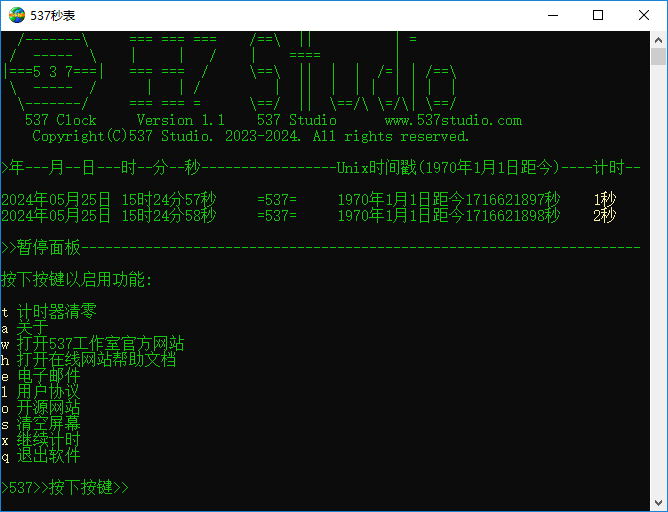
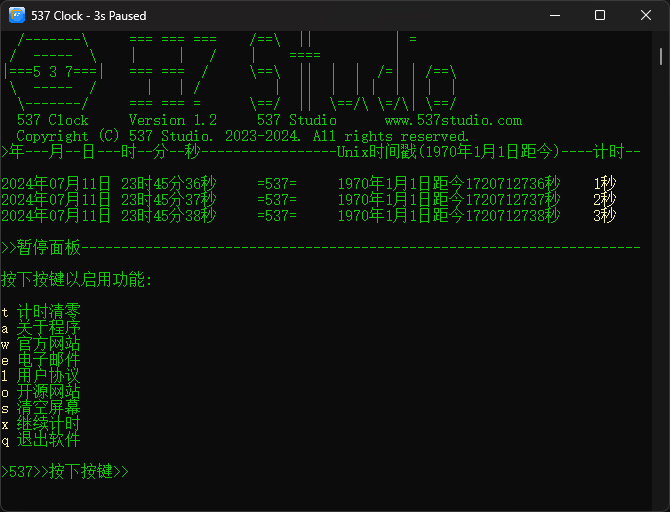
update README for v1.2

diff --git a/README.en.md b/README.en.md
@@ -2,17 +2,15 @@
 
 ### Introduction
 
-537 Clock is a Windows console application developed by 537 Studio, which is a command-line interface with functions such as year, month, day, hour, minute, and second display, Unix timestamp display, timing/clearing, and color grading.
+537 Clock is a Windows console application developed by 537 Studio, which is a command-line interface with functions such as year, month, day, hour, minute, and second display, Unix timestamp display, timing/clearing, and color grading. Released on December 31, 2023.
 
-Released on December 31, 2023
+Latest official version: 1.2 (portable: x64 & x86)
 
-Latest official version: 1.1 (portable: x64 & x86)
-
-Video introduction: https://www.bilibili.com/video/BV1Y2421M7yk
+Video Intro (1.0 beta version): https://www.bilibili.com/video/BV1Y2421M7yk
 
 ! [537 Clock] (537Clock_Introduction.PNG)
 
-### Concept: Less is more
+### Concept: _Less is more_
 
 The software is designed to create a great user experience. Icons built with useful characters and a user-friendly UI (user interface) that can be used to adjust the foreground color of the console (display character color). Its interactive experience also goes beyond the interaction of most command-line programs, such as selecting in-menu functions, where a normal command-line program requires the user to enter text before entering, while the 537 Clock cleverly uses a keyboard listening algorithm to react immediately when the software window is active. This greatly facilitates the use of the software. For example, during the timing period, the user presses and holds the spacebar for about 1 second (long press to avoid accidental touch), and the software will quickly open the pause panel with character animation, showing functions such as clearing and color grading. If you press the corresponding button of the function (not long press), the software will perform the relevant operation.
 
@@ -20,21 +18,25 @@ The software is designed to create a great user experience. Icons built with use
 
 At the beginning of the design of the 537 Clock, the pursuit of **simplicity and efficiency**. The following are the features and related introductions within the software:
 
-#### **Pause Panel**:
+#### **Title Seconds** (for 1.2 and above)
 
-Press and hold the keyboard spacebar for about 1 second during the software operation to open the pause panel. There are the following optional functions in the panel: Timer Clear, About, Color Correction, Open 537 Studio Official Website, Open Work Introduction Document, Email, User Agreement, Continue Timer, Exit. Press the buttons corresponding to each function in the first column of the window to perform the corresponding operation.
+From the beginning of the operation, the software will display the current number of seconds in the title bar at the same time, and the title will also synchronize "Paused" when paused.
 
-> When the pause panel is opened, the ongoing timing operation is paused.
+#### **Pause Panel**
 
-#### **Timer Zero**:
+Press and hold the keyboard spacebar for about 1 second during the software operation to open the pause panel. There are the following optional functions in the panel: Timer Clear, About Program, E-mail, User Agreement, Resume Timer, Exit. Press the buttons corresponding to each function in the first column of the window to perform the corresponding operation.
+
+> When the pause panel is opened, the ongoing timing operation is paused and the status is synced to the title.
+
+#### **Timer Zero** (1.1 and earlier versions are named "Timer Zero")
 
 The software starts the clock from the moment it is running, and the time is measured in seconds and is displayed in the rightmost column of the window. Press the "T" button on the pause panel to reset the timer time, and when the zero panel is closed, the timer will start from 0 again, which is irreversible.
 
-#### **About**:
+#### **About the program** (1.1 and earlier versions are named "About")
 
 Press the "A" button on the pause panel to display the software icon, version, and other related information, and there will be a selection sound and a software startup sound during the display, and there will be a comfortable character animation. After 0.2 seconds after the character interface is displayed, the software will automatically pop up an About window, which will display the current system information and software information, click "Confirm" to close. This window is a normal window type that can be preserved without conflicting with the stopwatch itself, and you can still perform other operations within the main window of the software even if you don't close the window.
 
-#### **Color Grading** (removed from version 1.1):
+#### **Color Grading** (for version 1.0)
 
 Press the "C" button on the pause panel to perform the action. This option provides the ability to adjust the foreground color (color of the displayed text) of the console window by pressing the corresponding hexadecimal key (0-9, A-F), and the following colors are available:
 
@@ -50,48 +52,56 @@ Press the "C" button on the pause panel to perform the action. This option provi
 > **Note**: The color description comes from the built-in Command Prompt program (cmd.exe) of the Microsoft Windows operating system, and the actual display color may not be the same as the description color.
 > 537 Clock does not store color data, and the text color will revert to pale green after restarting.
 
-#### **Open 537 Studio Official Website**:
+#### **Open Studio 537 Official Website** (for 1.1 and earlier)
 
 Press the "w" button in the pause panel to open the 537 official website with the default browser of the system (https://www.537studio.com), and the website will be launched in the future with the "537 Clock" software web online help document, but the relevant documents are still unfinished. This is just a test feature.
 
-#### **Email**:
+#### **Email**
 
 Press the "e" button in the pause panel, the program will call the system's default email sending software (such as mail app, Outlook, etc.), and automatically create an email session, the recipient is the developer's mailbox (wushaoquan666@outlook.com), the email function is designed to allow users to get in touch with the developer, send error messages, questions, etc. for help and support.
 
-#### **User Agreement**:
+#### **User Agreement**
 
 Press the "L" button on the pause panel. This software uses the GNU GPL-3.0 open source license, and the open source license web page (https://www.gnu.org/licenses/lgpl-3.0-standalone.html) will be opened using the default browser of the system.
-> The Software is open sourced on the Gitee and GitHub platform under the GPL-3.0 Open Source License and is available for modification and distribution by anyone(Gitee: https://gitee.com/FTS-537Studio/537Clock ; GitHub: https://github.com/537Studio/537Clock).
+> The Software is open sourced under the GPL-3.0 open source license on the Gitee and GitHub platforms and is available for modification and distribution by anyone (Gitee: https://gitee.com/FTS-537Studio/537Clock; GitHub: https://github.com/537Studio/537Clock）。
 
-#### **Open Source Website** (for 1.1 and above):
+#### **Open Source Website** (for 1.1 and above)
 
 Pressing the "o" button in the pause panel will display the addresses of all repositories of the software (including Gitee and GitHub). Press the corresponding button, and the software will use the system's default browser to open the relevant Git repository web page.
 
-#### **Clear Screen** (for 1.1 and later):
+#### **Clear Screen** (for 1.1 and above)
 
 Pressing the "S" button in the pause panel will clear the screen with text animation and restore the state when the software was opened. Your timing data will be saved.
 
-#### **Continue the Counting**:
+#### **Keep Timing On**
 
 If the user presses the spacebar by mistake or only wants to pause the timer, they can press the "x" key in the pause panel to restore the timer.
 
-#### **Exit**:
+#### **Exit**
 
 To exit the software, you can press the "Q" key in the pause panel to exit. After exiting, the timekeeping time and color settings will not be saved.
 
 ### Development
 
-##### Development Environment: Dev-C++ 5.11 with TDM-GCC(MinGW) 4.9.2
+##### **Development Environment**
 
-##### **Deployment system**: Windows XP and above
+Dev-C++ 5.11 with TDM-GCC(MinGW) 4.9.2
 
-##### **Language Standard**: ISO C++11
+##### **Deployment System**
 
-##### Compiler Extra Link Directive: -lwinmm
+> Windows XP and above
+
+##### **Language Standards**
+
+> C++11
+
+##### **Compiler Additional Link Directive**
+
+> -lwinmm
 
 #### How to participate in the development?
 
-Join 537 Studio (hello@537studio.com) or submit a modification request.
+> Join Studio 537 (hello@537studio.com) or submit a modification request.
 
 #### Help
 

diff --git a/README.md b/README.md
@@ -2,17 +2,15 @@
 
 ### 介绍
 
-537秒表（537Clock）是537工作室开发的一款Windows控制台应用程序，为命令行界面，有年月日时分秒显示、Unix时间戳显示、计时/清零、调色等功能。
+537秒表（537Clock）是537工作室开发的一款Windows控制台应用程序，为命令行界面，有年月日时分秒显示、Unix时间戳显示、计时/清零、调色等功能。发布于2023年12月31日。
 
-发布于2023年12月31日
+最新正式版本：1.2（便携式：x64 & x86）
 
-最新正式版本：1.1（便携式：x64 & x86）
-
-视频介绍：https://www.bilibili.com/video/BV1Y2421M7yk
+视频介绍（1.0测试版本）：https://www.bilibili.com/video/BV1Y2421M7yk
 
 ![537秒表](537Clock_Introduction.PNG)
 
-### 理念：少即是多（Less is more）
+### 理念：少即是多（_Less is more_）
 
 软件的设计理念是**创造出色的用户体验**。软件内有用字符构建成的图标和友好的UI（User Interface，用户界面），可以调整控制台前景色（显示字符颜色）。它的交互体验也超出了大多数命令行程序的交互，如选择菜单内功能，一般的命令行程序要求用户输入文本再回车，而537秒表巧妙地使用了键盘侦听算法，在软件窗口处于激活状态时，按下键盘按键便能立即作出反应。这很大程度上方便了软件的使用。如在计时期间，用户长按空格键约1秒（长按避免误触），软件就会以字符动画迅速打开暂停面板，显示清零、调色等功能。如果再按下功能的对应按键（非长按），软件就会执行相关操作。
 
@@ -20,21 +18,25 @@
 
 537秒表设计之初，追求**简洁和高效**。以下是软件内功能和相关介绍：
 
-####	**暂停面板**：
+####    **标题秒数**（适用于1.2及更高版本）
 
-软件运行期间长按键盘空格键约1秒，即可打开暂停面板。面板内有以下可选功能：计时器清零、关于、调色、打开537工作室官方网站、打开作品介绍文档、电子邮件、用户协议、继续计时、退出。按下窗口第一列各种功能对应的按键即可执行对应操作。
+软件从运行开始就会在标题栏同时显示当前计时的秒数，当暂停时标题也会同步“Paused（暂停）”。
 
-> 打开暂停面板后，正在进行的计时操作会被暂停。
+####	**暂停面板**
 
-####	**计时器清零**：
+软件运行期间长按键盘空格键约1秒，即可打开暂停面板。面板内有以下可选功能：计时清零、关于程序、电子邮件、用户协议、继续计时、退出。按下窗口第一列各种功能对应的按键即可执行对应操作。
+
+> 打开暂停面板后，正在进行的计时操作会被暂停，并将状态同步到标题。
+
+####	**计时清零**（1.1及更早版本名为“计时器清零”）
 
 软件从运行一刻即开始计时，计时时间以秒为单位，会显示在窗口最右边一列。在暂停面板按下“t”按键就可把计时时间清零，关闭该清零面板后将会重新从0开始计时，此操作不可逆。
 
-####	**关于**：
+####	**关于程序**（1.1及更早版本名为“关于”）
 
 在暂停面板按下“a”按键即可展示软件图标、版本等相关信息，展示时会有选中音和软件启动音，并且有令人舒适的字符动画。字符界面展示完毕0.2秒后，软件会自动弹出一个关于窗口，会显示当前的系统信息和软件信息，点按“确认”即可关闭。该窗口属于普通窗口类型，可以保留而不与秒表本身功能冲突，即使不关闭该窗口，还是可以在软件主窗口内执行其他操作。
 
-####	**调色**（已从1.1版本中移除）：
+####	**调色**（适用于1.0版本）
 
 在暂停面板按下“c”按键即可执行操作。本选项提供了调整控制台窗口前景色（显示文本的颜色）的功能，按下对应16进制按键（0-9，A-F），有以下颜色可选：
 
@@ -50,48 +52,56 @@
 > **注**：颜色说明来源于Microsoft Windows操作系统的内置命令提示符程序（cmd.exe），实际显示颜色不一定与说明颜色相同。
 > 537秒表不会存储颜色数据，重启后，文本颜色将会还原为淡绿色。
 
-####	**打开537工作室官方网站**：
+####	**打开537工作室官方网站**（适用于1.1及更早版本）
 
 在暂停面板按下“w”按键可以执行使用系统默认浏览器打开537官网的操作（https://www.537studio.com），未来该网站将会上线“537秒表”软件的web在线帮助文档，但是目前相关文档仍然未完成。这只是个测试功能。
 
-####  **电子邮件**：
+####  **电子邮件**
 
 在暂停面板按下“e”按键，程序会调用系统默认的邮件发送软件（如邮件App、Outlook等），并自动创建一个邮件会话，收件者为开发者邮箱（wushaoquan666@outlook.com），该邮件功能设计目标是让用户可以与开发者取得联系，发送如错误信息、问题等以获取帮助与支持。
 
-####  **用户协议**：
+####  **用户协议**
 
 在暂停面板按下“l”按键。本软件使用的是GNU GPL-3.0开源协议，将会使用系统默认浏览器打开开源协议网页（https://www.gnu.org/licenses/lgpl-3.0-standalone.html）。
 > 根据GPL-3.0开源协议，本软件已在Gitee和GitHub平台上开源并允许任何人进行修改和发行（Gitee: https://gitee.com/FTS-537Studio/537Clock ; GitHub: https://github.com/537Studio/537Clock）。
 
-####  **开源网站**（适用于1.1及更高版本）：
+####  **开源网站**（适用于1.1及更高版本）
 
 在暂停面板按下“o”按键，将会显示软件的所有代码仓库地址（包括Gitee、GitHub）。按下对应按键，软件将使用系统默认浏览器打开相关Git存储库网页。
 
-####  **清空屏幕**（适用于1.1及更高版本）：
+####  **清空屏幕**（适用于1.1及更高版本）
 
 在暂停面板按下“s”按键，将会以文字动画清空屏幕并恢复软件打开时的状态。您的计时数据将会保存。
 
-#### **继续计时**：
+#### **继续计时**
 
 如果用户误按空格键或是只想暂停计时，那可以在暂停面板按下“x”键还原到原计时状态。
 
-#### **退出**：
+#### **退出**
 
 退出软件，可以在暂停面板按下“q”键退出。退出后，计时时间、颜色设置不会保存。
 
 ### 开发
 
-##### **开发环境**：Dev-C++ 5.11 with TDM-GCC(MinGW) 4.9.2
+##### **开发环境**
 
-##### **部署系统**：WindowsXP及以上
+Dev-C++ 5.11 with TDM-GCC(MinGW) 4.9.2
 
-##### **语言标准**：ISO C++11
+##### **部署系统**
 
-##### **编译器额外链接指令**：-lwinmm
+> WindowsXP及以上
+
+##### **语言标准**
+
+> C++11
+
+##### **编译器额外链接指令**
+
+> -lwinmm
 
 #### 如何参与开发？
 
-    加入537工作室（hello@537studio.com）或提交修改申请。
+> 加入537工作室（hello@537studio.com）或提交修改申请。
 
 #### 帮助
 
